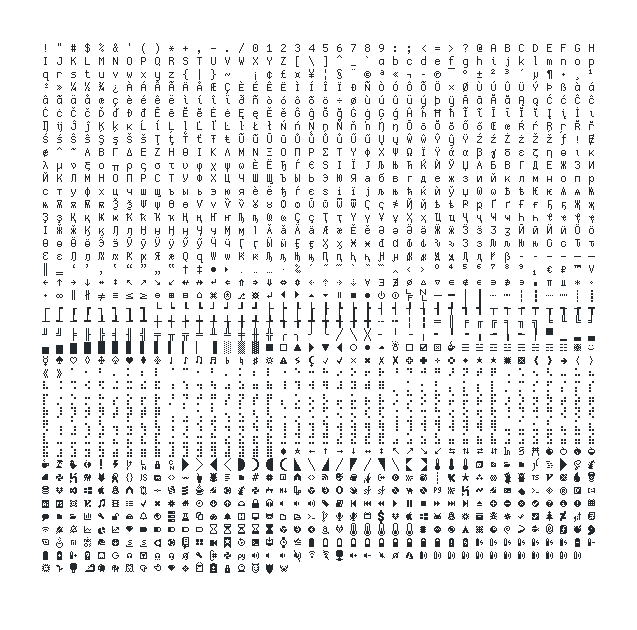
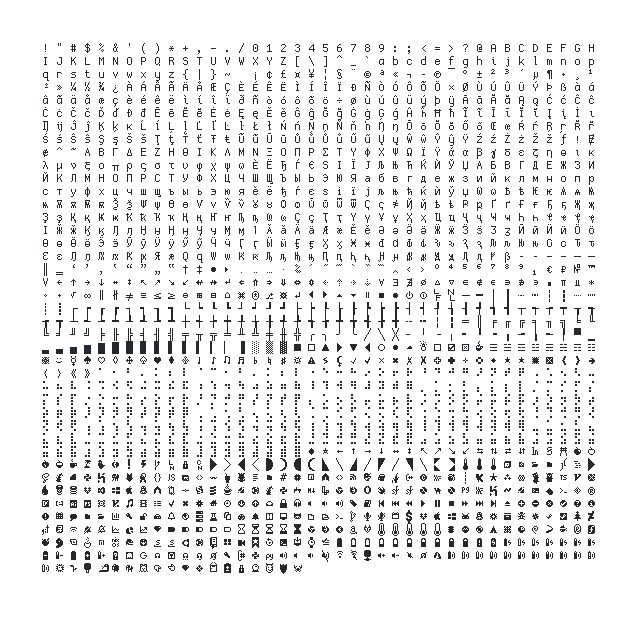
v.1.9.2
Closes #29 numero glyph U+2116
Closes #31 square root glyph U+221A
Closes #32 wrong glyphs for U+0506 & U+0507 CYRILLIC CAPITAL/SMALL
LETTER KOMI DZJE

diff --git a/CHANGELOG.md b/CHANGELOG.md
@@ -9,6 +9,17 @@ The format is based on [Keep a Changelog], and this project adheres to
 
 Nothing!
 
+
+## [1.9.2]
+
+### Added
+- √ (U+221A SQUARE ROOT)
+- № (U+2116 NUMERO SIGN)
+
+### Fixed
+- Ԇ (U+0506 CYRILLIC CAPITAL LETTER KOMI DZJE) now has an actual glyph
+- ԇ (U+0507 CYRILLIC SMALL LETTER KOMI DZJE) now has an actual glyph
+
 ## [1.9.0]
 
 ### Added
@@ -513,6 +524,8 @@ Still broken on Windows.
 [Keep a Changelog]: https://keepachangelog.com/en/1.0.0/
 [Semantic Versioning]: https://semver.org/spec/v2.0.0.html
 [unreleased]: https://github.com/slavfox/Cozette/compare/v.1.8.3...HEAD
+[1.9.2]: https://github.com/slavfox/Cozette/compare/v.1.9.0...v.1.9.2
+[1.9.0]: https://github.com/slavfox/Cozette/compare/v.1.8.3...v.1.9.0
 [1.8.3]: https://github.com/slavfox/Cozette/compare/v.1.8.2...v.1.8.3
 [1.8.2]: https://github.com/slavfox/Cozette/compare/v.1.8.1...v.1.8.2
 [1.8.1]: https://github.com/slavfox/Cozette/compare/v.1.8.0...v.1.8.1
